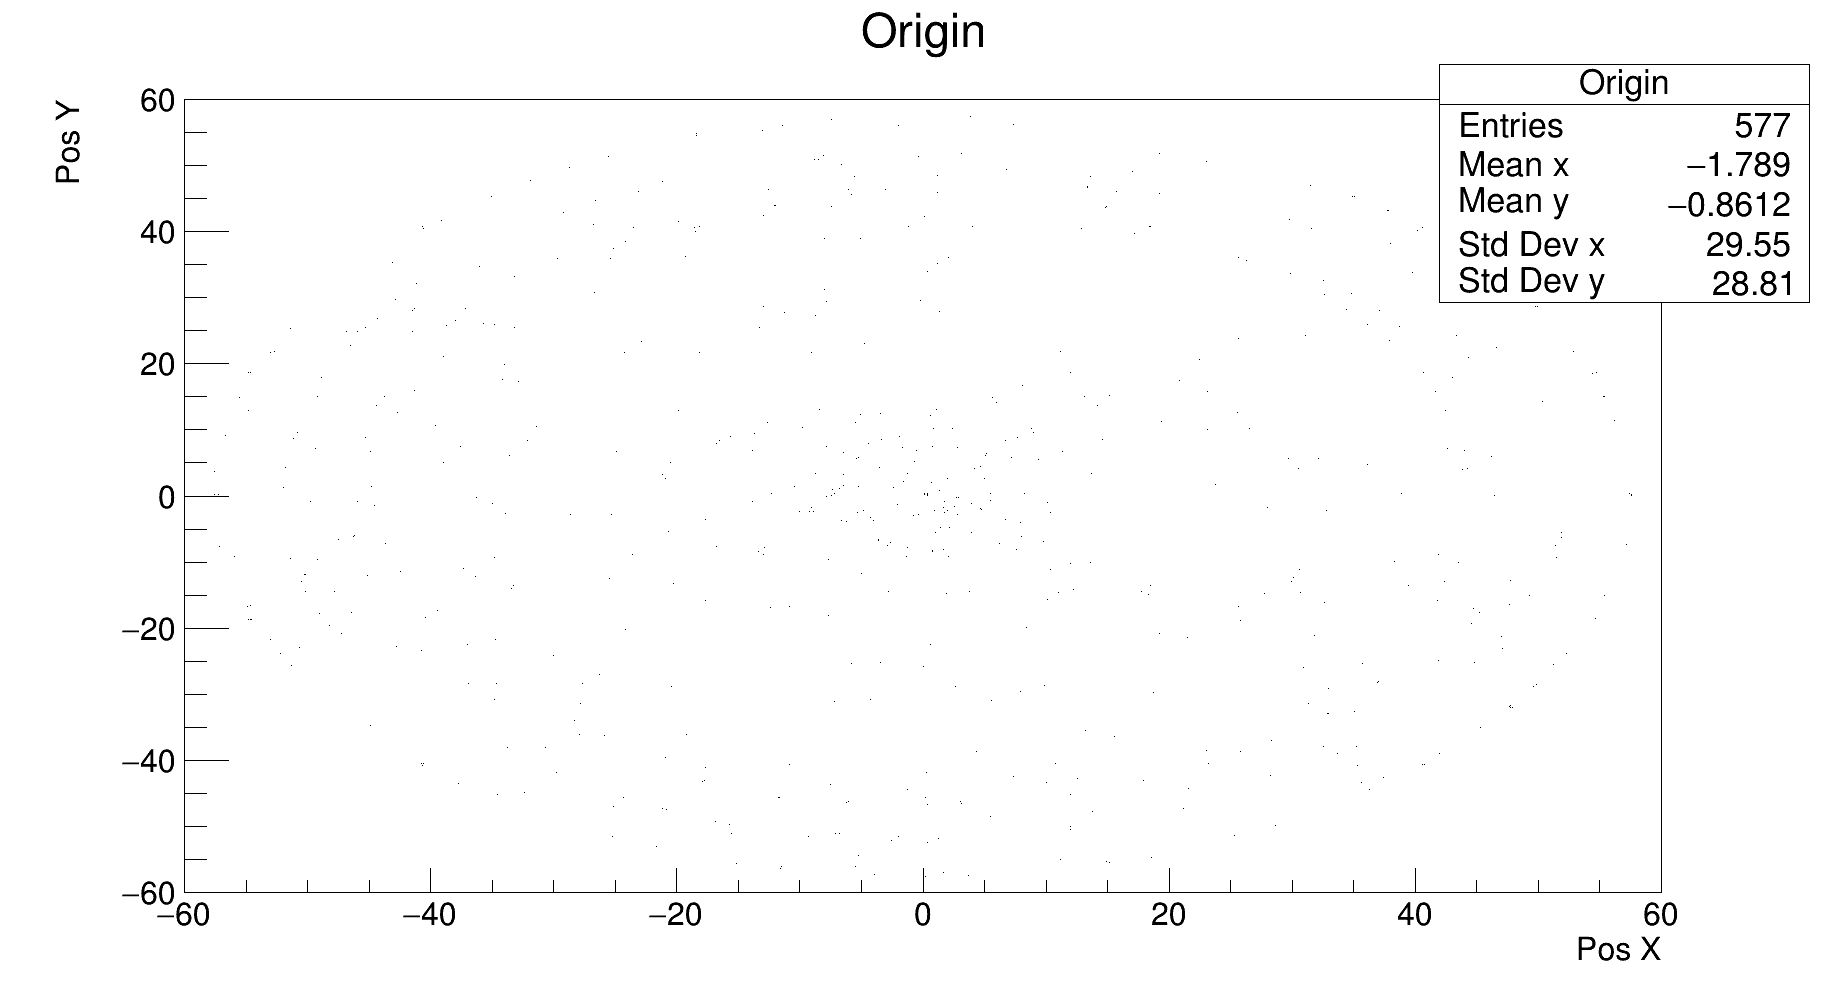
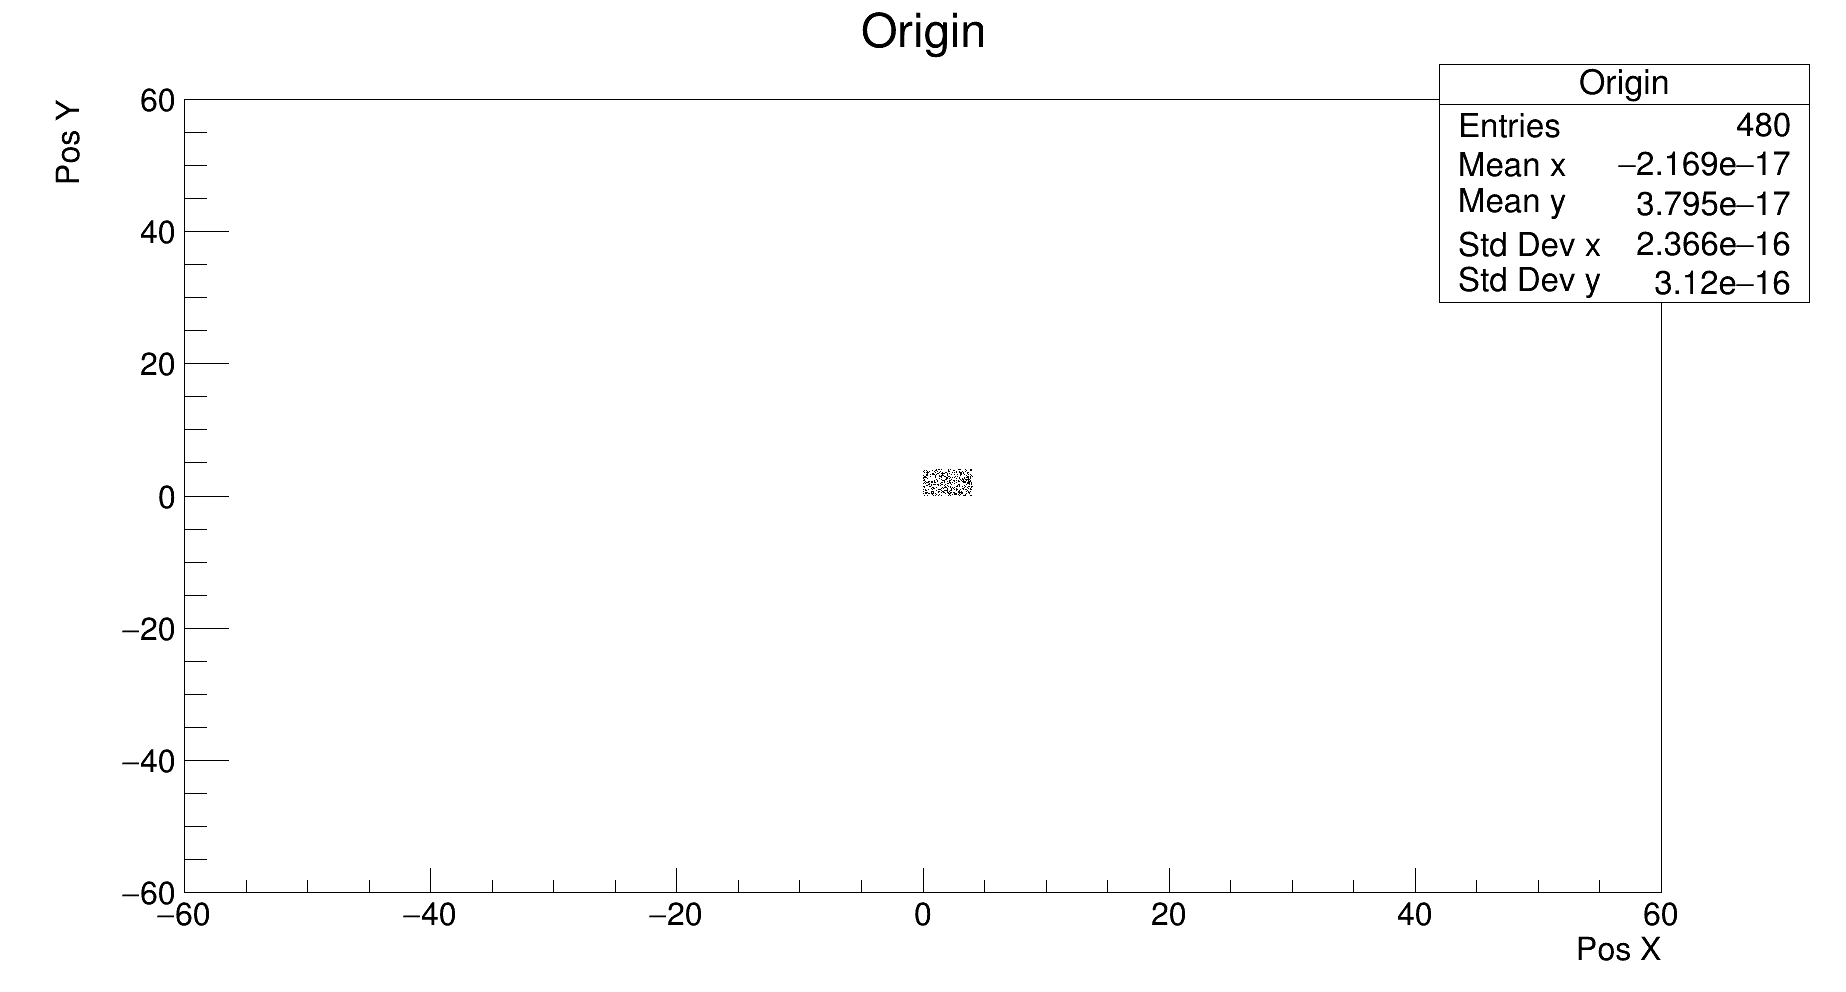
Fixed errors with timeRescale variable and origin calculation.

Changed region(s): [[0.8028, 0.0938, 0.9881, 0.3125], [0.494, 0.4688, 0.5249, 0.5]]

diff --git a/DTW_algorithm/calc_lifetime.h b/DTW_algorithm/calc_lifetime.h
@@ -17,7 +17,8 @@
 //using namespace std;
 
 std::vector<float> calc_lifetime(ROOT::RDF::RInterface<ROOT::Detail::RDF::RJittedFilter, void> df){
-	float timeRescale = 1/1000;	//rescale time unit to nanoseconds
+	float timeRescale = 1.0/1000.0;	//rescale time unit to nanoseconds
+	const float energyTH = 350.0;
 	float c = 30;		//speed of light [cm/ns]
 	auto time_Vec = *(df.Take<std::vector<float>>("time"));
 	auto x_Vec = *(df.Take<std::vector<float>>("x"));
@@ -29,21 +30,20 @@ std::vector<float> calc_lifetime(ROOT::RDF::RInterface<ROOT::Detail::RDF::RJitte
 	float tFl1, tFl2, tEm1, tEm2, refTime, lenAB, origin[3] = {0.0, 0.0, 0.0};
 	std::vector<float> vecAB, pDist, d1, d2;
 	int iMap[3] = {0, 1, 2};
-
 	
 	for (int i = 0; i < time_Vec.size(); i++){
 		//set index mapping based on prompt index
-		if(energy[i][0] > 511.0){
+		if(energy[i][0] > energyTH){
 			iMap[0] = 0; 
 			if(time_Vec[i][1] > time_Vec[i][2]){ iMap[1] = 1; iMap[2] = 2;}
 			else { iMap[1] = 2; iMap[2] = 1;}
 		}
-		else if(energy[i][1] > 511.0){
+		else if(energy[i][1] > energyTH){
 			iMap[0] = 1;
 			if(time_Vec[i][0] > time_Vec[i][2]){ iMap[1] = 0; iMap[2] = 2;}
 			else { iMap[1] = 2; iMap[2] = 0;}
 		}
-		else if(energy[i][2] > 511.0){
+		else if(energy[i][2] > energyTH){
 			iMap[0] = 2;
 			if(time_Vec[i][0] > time_Vec[i][1]){ iMap[1] = 0; iMap[2] = 1;}
 			else { iMap[1] = 1; iMap[2] = 0;}
@@ -56,9 +56,9 @@ std::vector<float> calc_lifetime(ROOT::RDF::RInterface<ROOT::Detail::RDF::RJitte
 		vecAB = { (x_Vec[i][iMap[1]] - x_Vec[i][iMap[2]]), (y_Vec[i][iMap[1]] - y_Vec[i][iMap[2]]), (z_Vec[i][iMap[1]] - z_Vec[i][iMap[2]]) };
 		lenAB = TMath::Sqrt( vecAB[0]*vecAB[0] + vecAB[1]*vecAB[1] + vecAB[2]*vecAB[2]);
 		
-		origin[0] = x_Vec[i][iMap[2]] + (0.5 + c*timeRescale*(time_Vec[i][iMap[1]]-time_Vec[i][iMap[2]]) / (2*lenAB) ) * vecAB[0];
-		origin[1] = y_Vec[i][iMap[2]] + (0.5 + c*timeRescale*(time_Vec[i][iMap[1]]-time_Vec[i][iMap[2]]) / (2*lenAB) ) * vecAB[1];
-		origin[2] = z_Vec[i][iMap[2]] + (0.5 + c*timeRescale*(time_Vec[i][iMap[1]]-time_Vec[i][iMap[2]]) / (2*lenAB) ) * vecAB[2];
+		origin[0] = x_Vec[i][iMap[2]] + (0.5 - c*timeRescale*(time_Vec[i][iMap[1]]-time_Vec[i][iMap[2]]) / (2*lenAB) ) * vecAB[0];
+		origin[1] = y_Vec[i][iMap[2]] + (0.5 - c*timeRescale*(time_Vec[i][iMap[1]]-time_Vec[i][iMap[2]]) / (2*lenAB) ) * vecAB[1];
+		origin[2] = z_Vec[i][iMap[2]] + (0.5 - c*timeRescale*(time_Vec[i][iMap[1]]-time_Vec[i][iMap[2]]) / (2*lenAB) ) * vecAB[2];
 		//std::cout << origin[0] << "	" << origin[1] << "	" << origin[2] << std::endl;
 	
 		//calculate "machine time" T

diff --git a/DTW_algorithm/DTW.cpp b/DTW_algorithm/DTW.cpp
@@ -90,17 +90,20 @@ void DTW(){
 	inFile.close();
 	
 	//3-hit Pickoff events, no scatters, has prompt
-	auto df_fltr = df.Filter("numberOfHits == 3 && !isPickOff && !isScattered && containsPrompt");
+	auto df_fltr = df.Filter("(numberOfHits == 3) && (isPickOff) && (!isScattered) && (!isSecondary) && (containsPrompt)");
 	
 	//Split between true events and randoms
 	auto df_true = df_fltr.Filter("!isAcc");
 	auto df_acc = df_fltr.Filter("isAcc");
 	
+	df_true.Snapshot(treeName.c_str(), "out.root");
+	//auto report = df_true.Report();
+	
 	//Histo of origin points
 	auto df_vertex = df_true.Define("origin_x", get_origin_x, {"x", "y", "z", "time"}).Define("origin_y", get_origin_y, {"x", "y", "z", "time"}).Define(
 						"origin_z", get_origin_z, {"x", "y", "z", "time"});
 	std::unique_ptr<TCanvas> origin(new TCanvas("origin", "origin", 1920, 1080));
-	auto hist_orig = df_vertex.Histo2D({"Origin", "Origin", 300, -60, 60, 300, -60, 60}, "origin_x", "origin_y");
+	auto hist_orig = df_vertex.Histo2D({"Origin", "Origin", 30, -60, 60, 30, -60, 60}, "origin_x", "origin_y");
 	hist_orig->GetXaxis()->SetTitle("Pos X");
 	hist_orig->GetYaxis()->SetTitle("Pos Y");
 	hist_orig->Draw();
